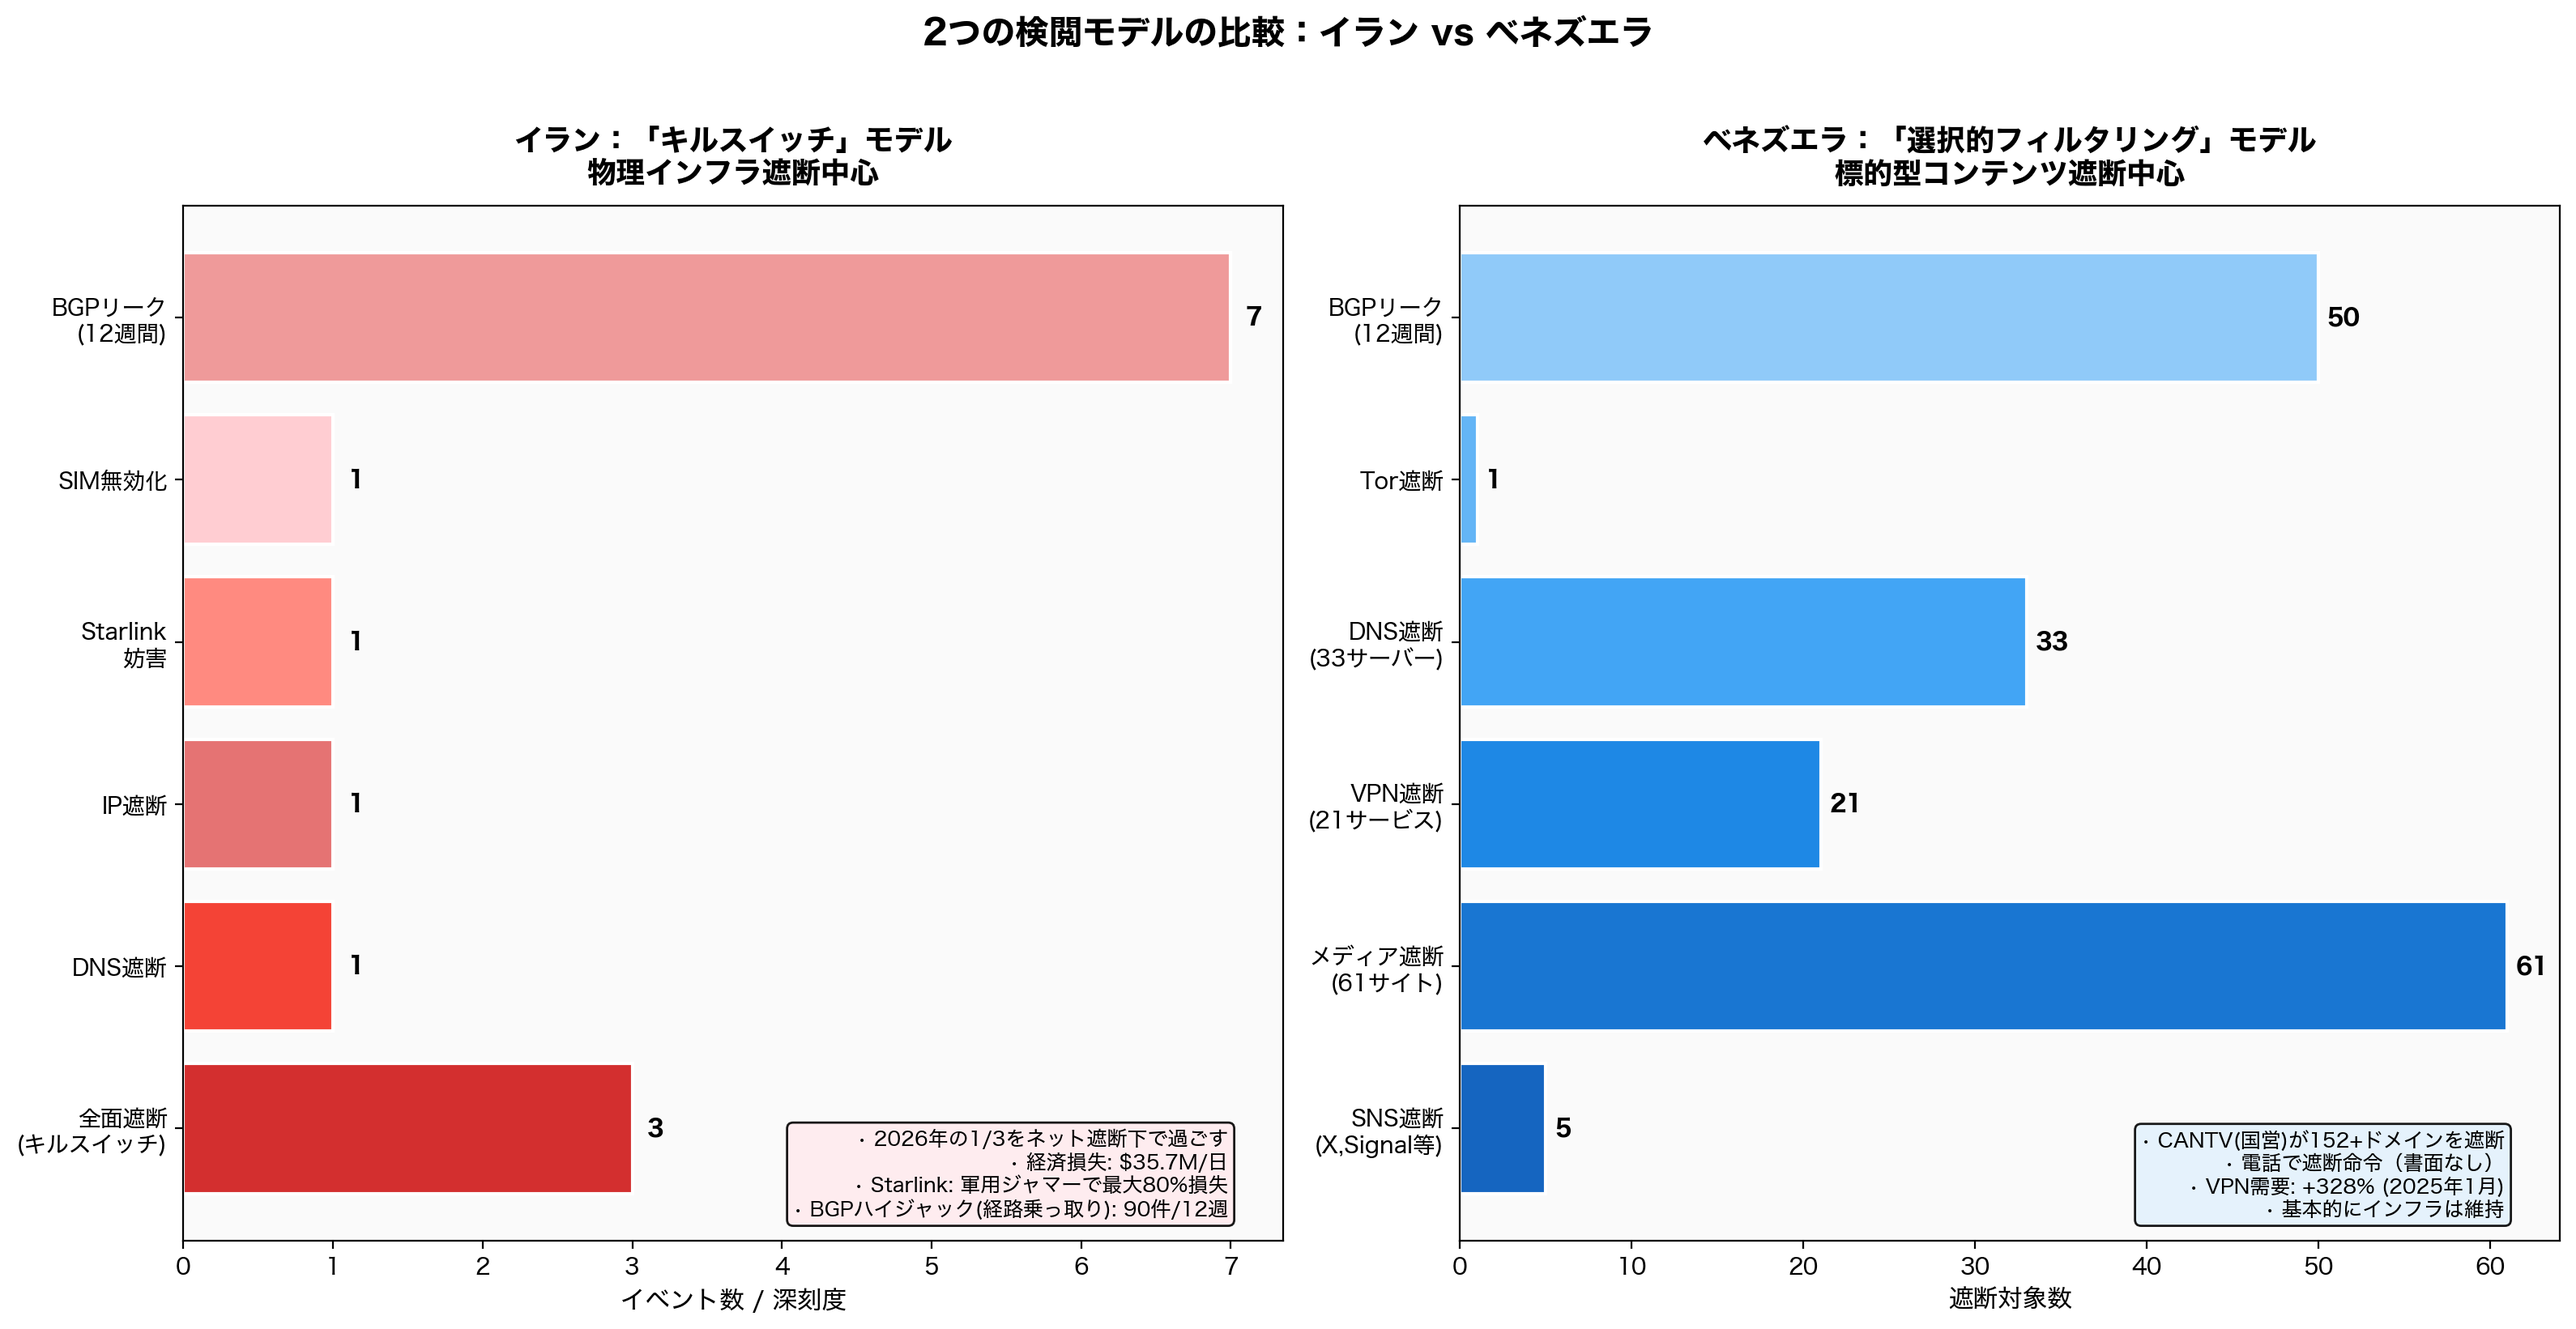
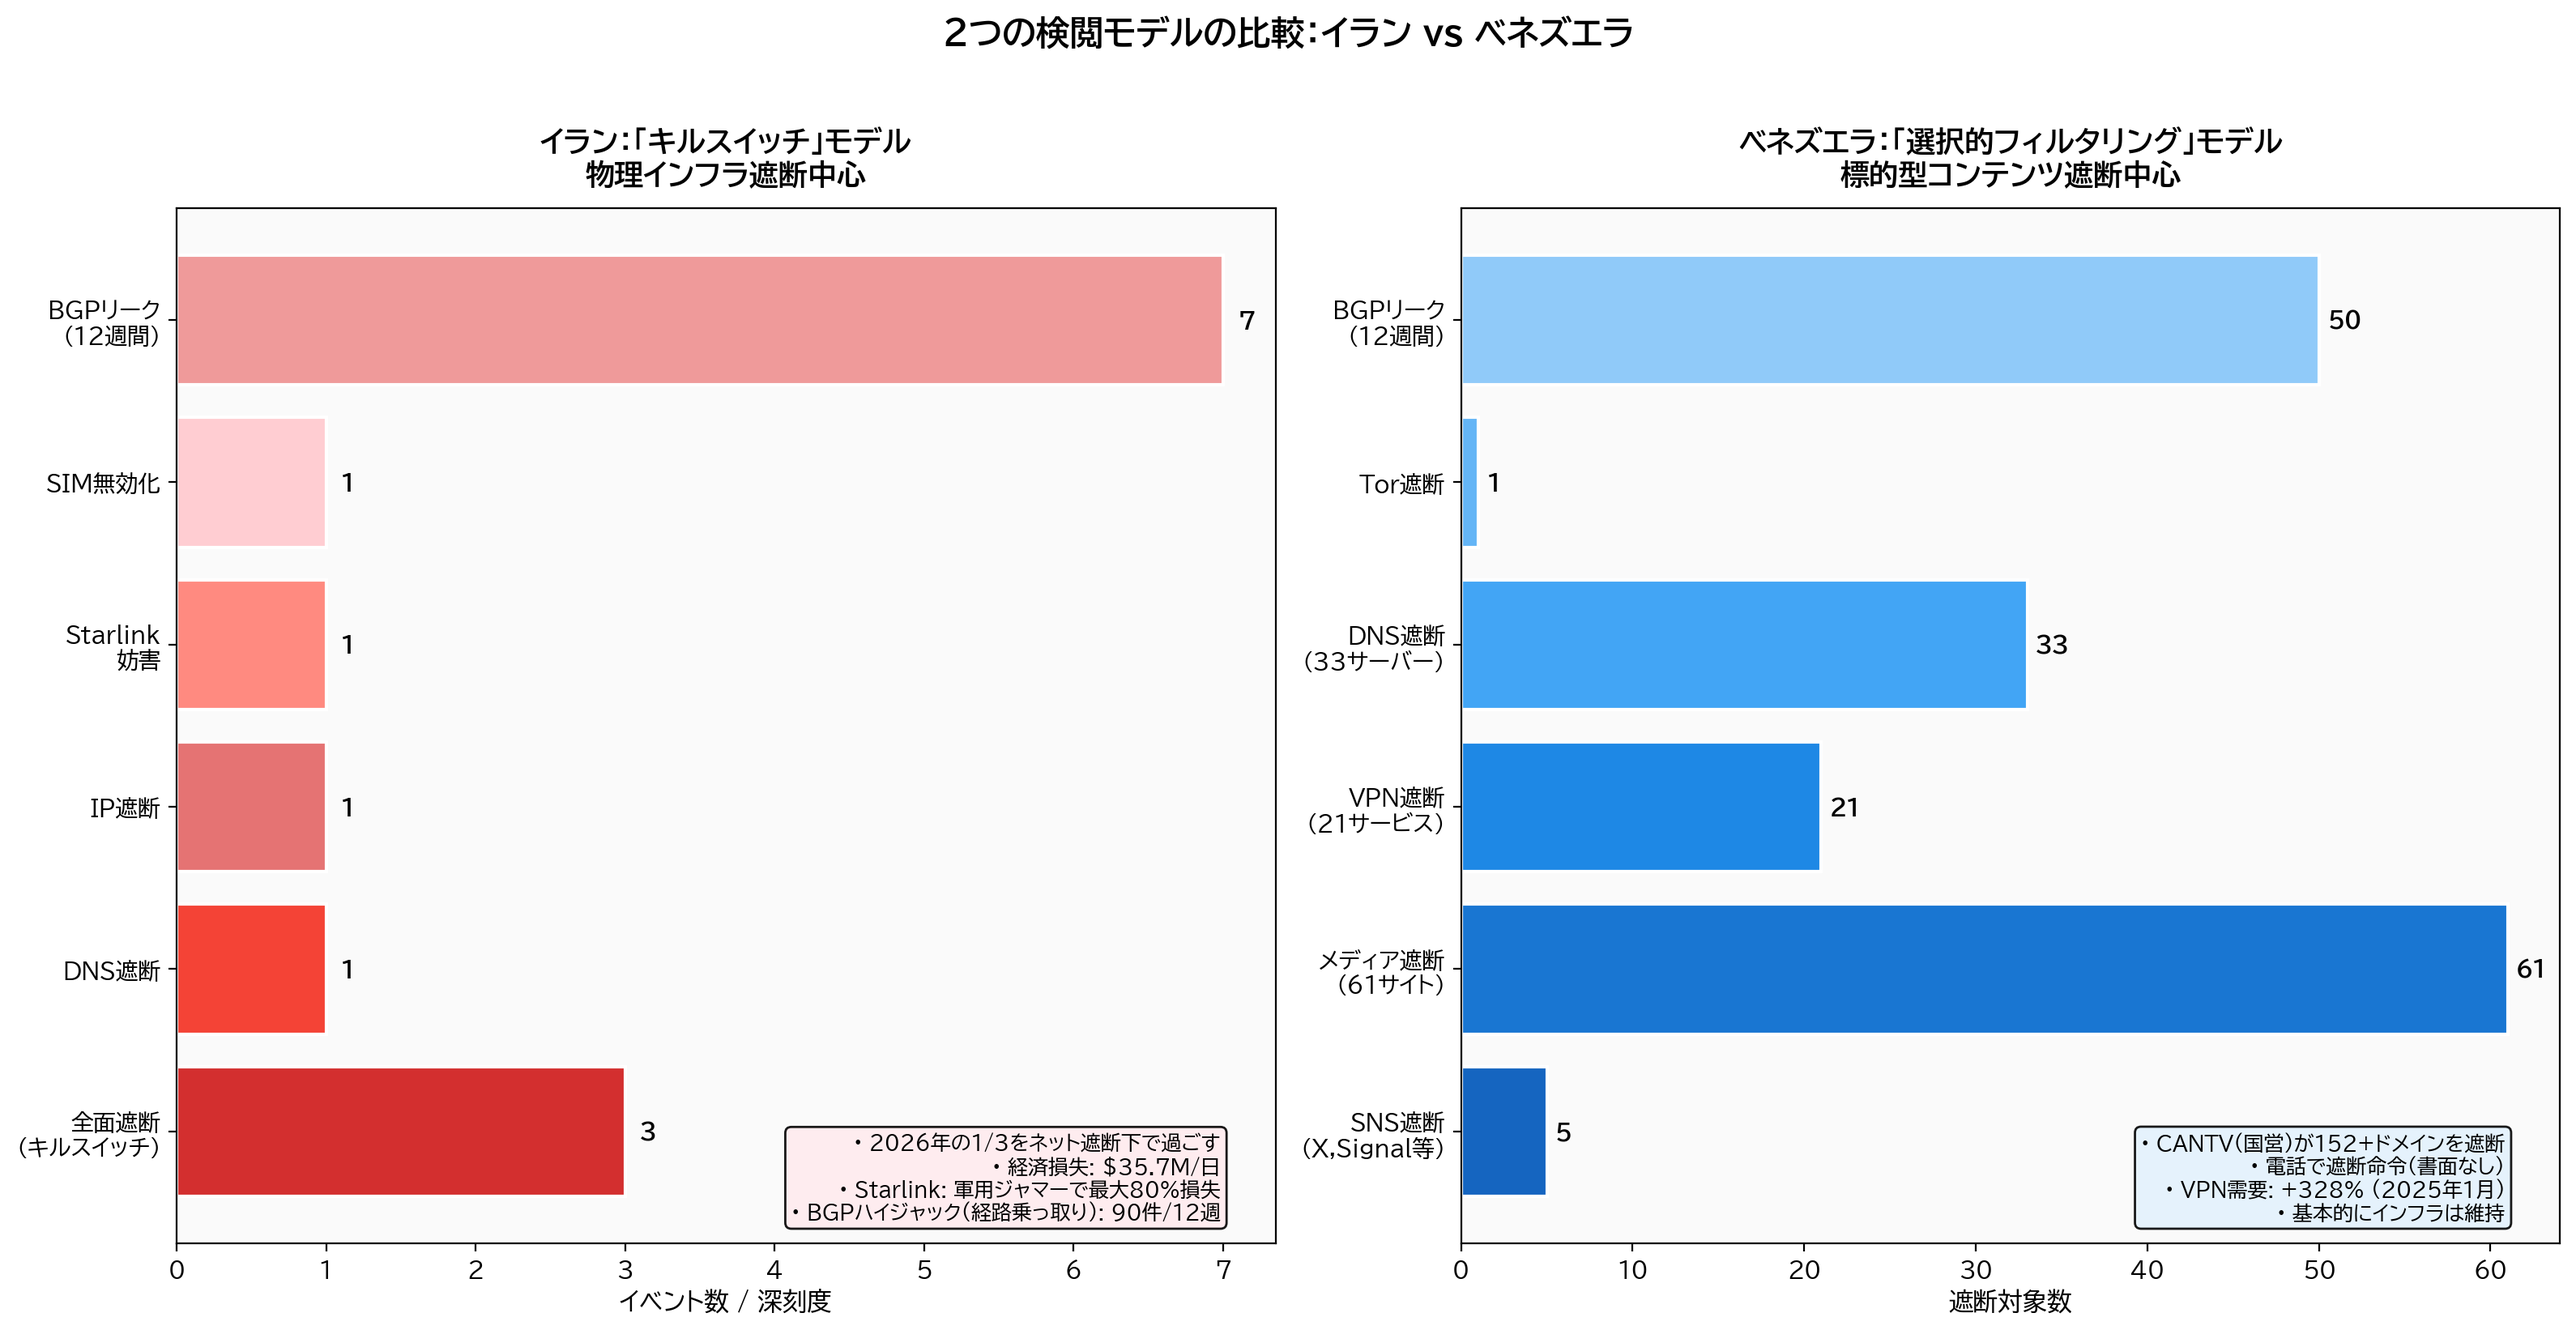
style: use BIZ UDPGothic in matplotlib plots
Register font from Nix store at runtime. Remove unused imports.

diff --git a/2026-03-28/scripts/visualize.py b/2026-03-28/scripts/visualize.py
@@ -9,7 +9,6 @@ Usage:
 """
 
 import argparse
-import glob as globmod
 import matplotlib
 matplotlib.use('Agg')
 import matplotlib.pyplot as plt
@@ -22,15 +21,24 @@ from datetime import datetime, timedelta
 from pathlib import Path
 from typing import Optional
 import json
-import os
 
-# Japanese font support
+# Japanese font support — register BIZ UDPGothic from Nix store or system
 import matplotlib.font_manager as fm
-_noto = fm.findfont(fm.FontProperties(family='Noto Sans CJK JP'))
-if 'Noto' in _noto:
-    plt.rcParams['font.family'] = ['Noto Sans CJK JP', 'sans-serif']
-else:
-    plt.rcParams['font.family'] = ['Hiragino Sans', 'Hiragino Kaku Gothic Pro', 'sans-serif']
+import subprocess
+_font_dirs = ['/nix/store']
+try:
+    _nix_path = subprocess.run(
+        ['nix', 'build', 'nixpkgs#biz-ud-gothic', '--no-link', '--print-out-paths'],
+        capture_output=True, text=True, timeout=30,
+    )
+    if _nix_path.returncode == 0:
+        _font_dirs = [_nix_path.stdout.strip() + '/share/fonts/truetype']
+except (FileNotFoundError, subprocess.TimeoutExpired):
+    pass
+for _d in _font_dirs:
+    for _f in fm.findSystemFonts(fontpaths=[_d]):
+        fm.fontManager.addfont(_f)
+plt.rcParams['font.family'] = ['BIZ UDPGothic', 'sans-serif']
 plt.rcParams['axes.unicode_minus'] = False
 
 ROOT = Path(__file__).resolve().parent.parent
